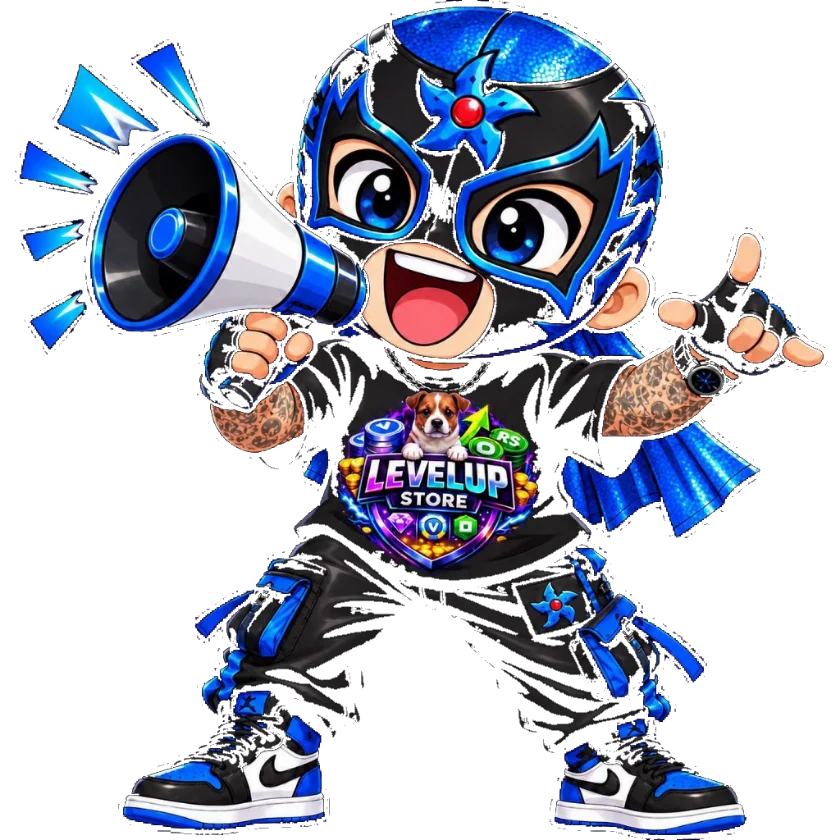
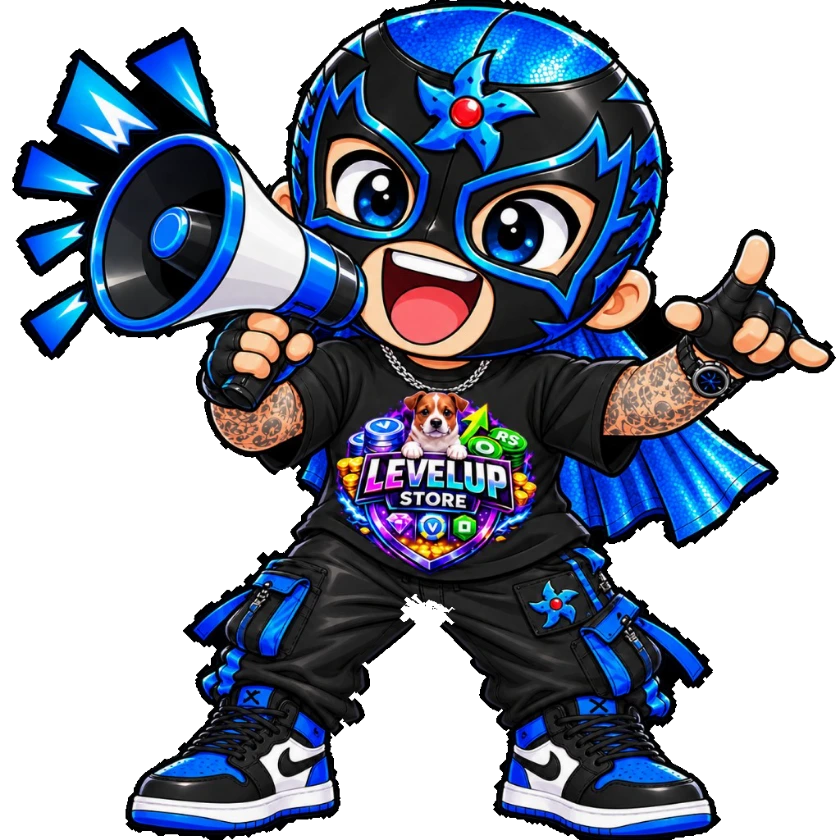
web: replace the homepage mascots with complete figures

diff --git a/apps/web/src/app/globals.css b/apps/web/src/app/globals.css
@@ -985,7 +985,7 @@ input:focus { outline: 2px solid var(--accent-2); outline-offset: -1px; }
   height: auto;
   object-fit: contain;
   filter: drop-shadow(0 10px 16px rgba(0, 0, 0, 0.45));
-  z-index: 2;
+  z-index: 1;
   animation: hmFloat 4.6s ease-in-out infinite;
 }
 .hm-hero-mascot {
@@ -997,7 +997,7 @@ input:focus { outline: 2px solid var(--accent-2); outline-offset: -1px; }
   object-fit: contain;
   object-position: center top;
   filter: drop-shadow(0 12px 20px rgba(0, 0, 0, 0.5));
-  z-index: 1;
+  z-index: 2;
   animation: hmFloat 4.6s ease-in-out infinite;
 }
 .hm-hero-aside { display: none; }
@@ -1228,12 +1228,12 @@ input:focus { outline: 2px solid var(--accent-2); outline-offset: -1px; }
   .hm-hero-num { font-size: clamp(34px, 11vw, 46px); }
   .hm-hero-unit { font-size: 13px; }
   .hm-hero-price { font-size: 20px; margin-bottom: 10px; }
-  .hm-hero-mascot { top: 6px; right: 6px; bottom: auto; width: 46%; max-width: none; max-height: none; height: auto; }
-  .hm-hero-chest { width: 50%; right: 0; bottom: -2%; }
+  .hm-hero-mascot { top: 4px; right: 4px; bottom: auto; width: 48%; max-width: none; max-height: none; height: auto; z-index: 2; }
+  .hm-hero-chest { width: 46%; right: 0; bottom: -2%; z-index: 1; }
   .hm-hero-aside { font-size: 10px; max-width: 6.8em; top: 8px; right: 6px; }
-  .hm-promo { grid-template-columns: 124px 1fr 64px; min-height: 148px; padding: 8px 8px 8px 8px; }
-  .hm-promo-art { width: 124px; height: 132px; }
-  .hm-promo-mascot { width: 124px; height: 132px; }
+  .hm-promo { grid-template-columns: 138px 1fr 62px; min-height: 164px; padding: 8px 8px 6px 6px; align-items: end; }
+  .hm-promo-art { width: 138px; height: 150px; }
+  .hm-promo-mascot { width: 138px; height: 150px; object-fit: contain; object-position: center bottom; }
   .hm-promo-gift { width: 68px; }
   .hm-promo-copy h2 { font-size: 15px; margin-bottom: 8px; }
   .hm-promo-cta { padding: 7px 12px; font-size: 11px; }
